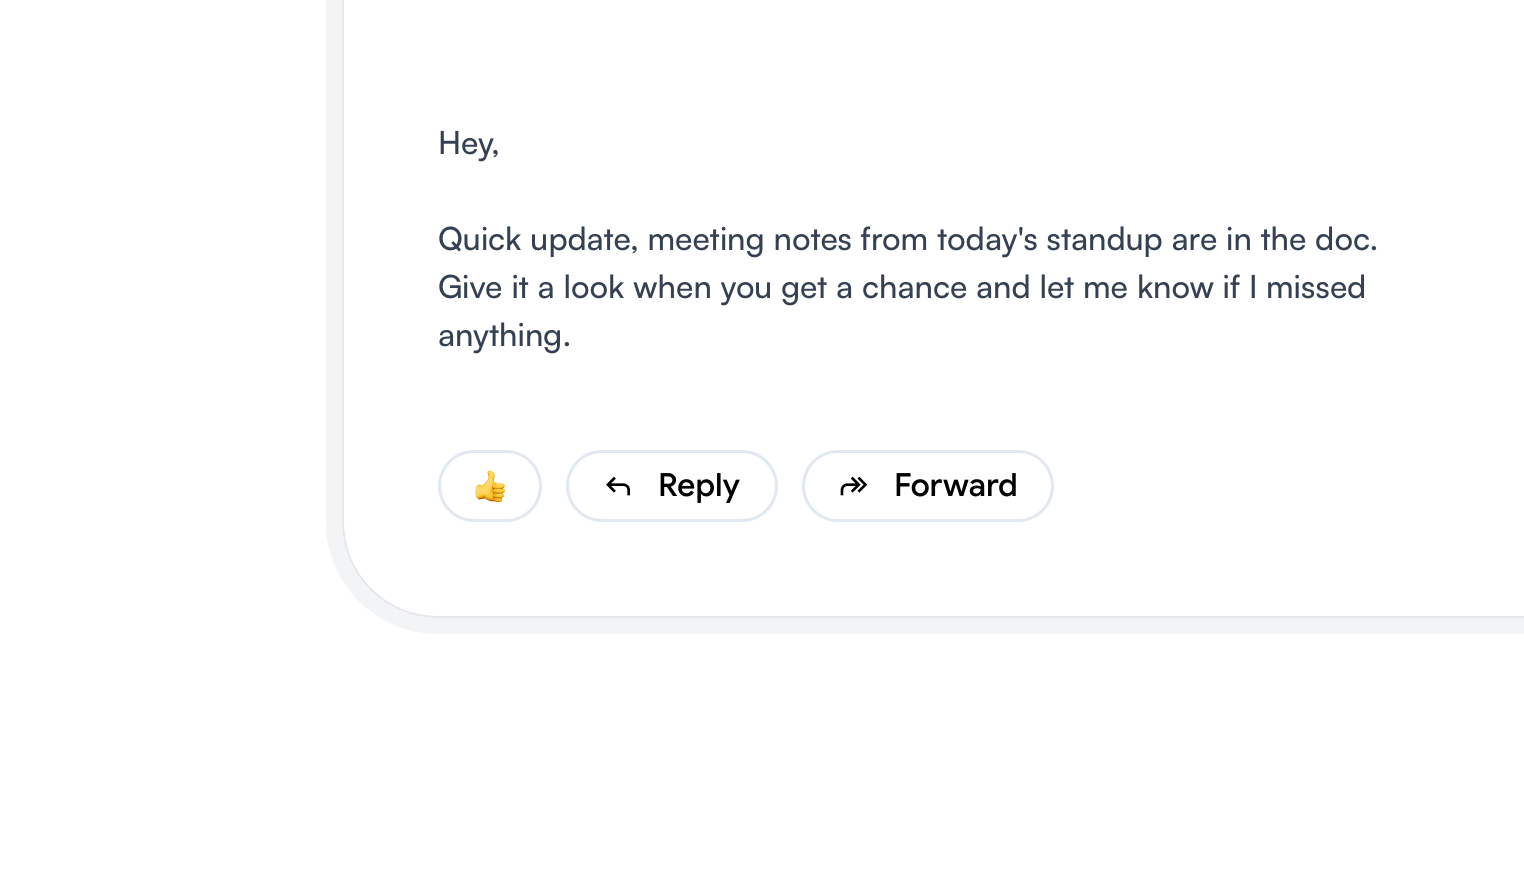
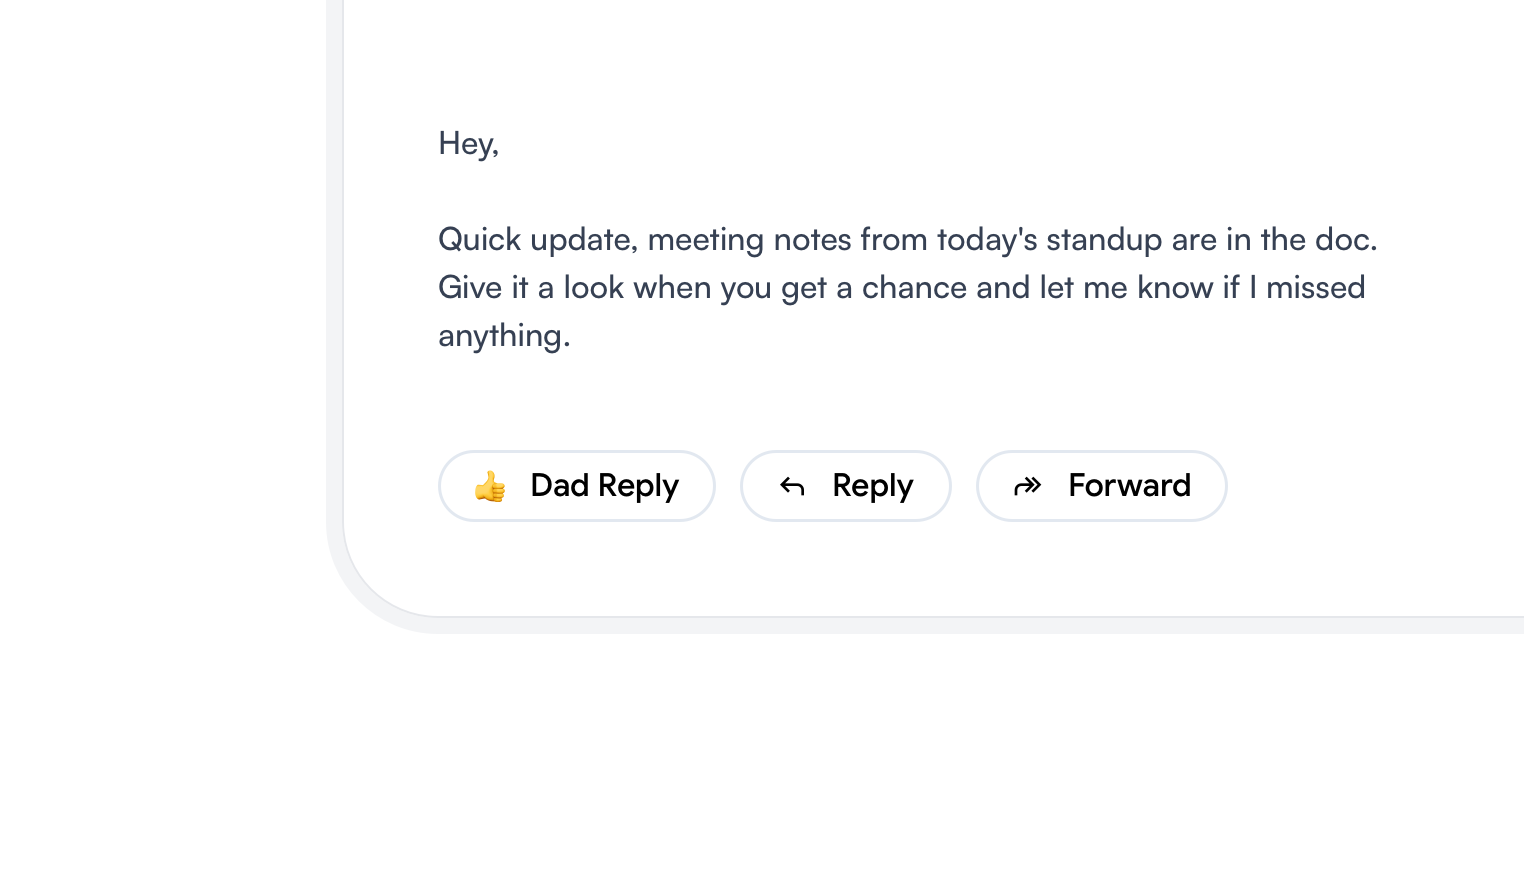
Adding madebyhumans.day, updated DadReply image.

Changed region(s): [[0.3392, 0.5, 0.8018, 0.5938]]

diff --git a/src/components/glyph-palette/Changelog.svelte b/src/components/glyph-palette/Changelog.svelte
@@ -38,7 +38,7 @@
     @apply text-muted text-xxs uppercase;
   }
   .entry {
-    @apply rounded-2xl bg-gray-100 p-6;
+    @apply rounded-2xl bg-stone-100 p-6;
   }
 
   .features {
